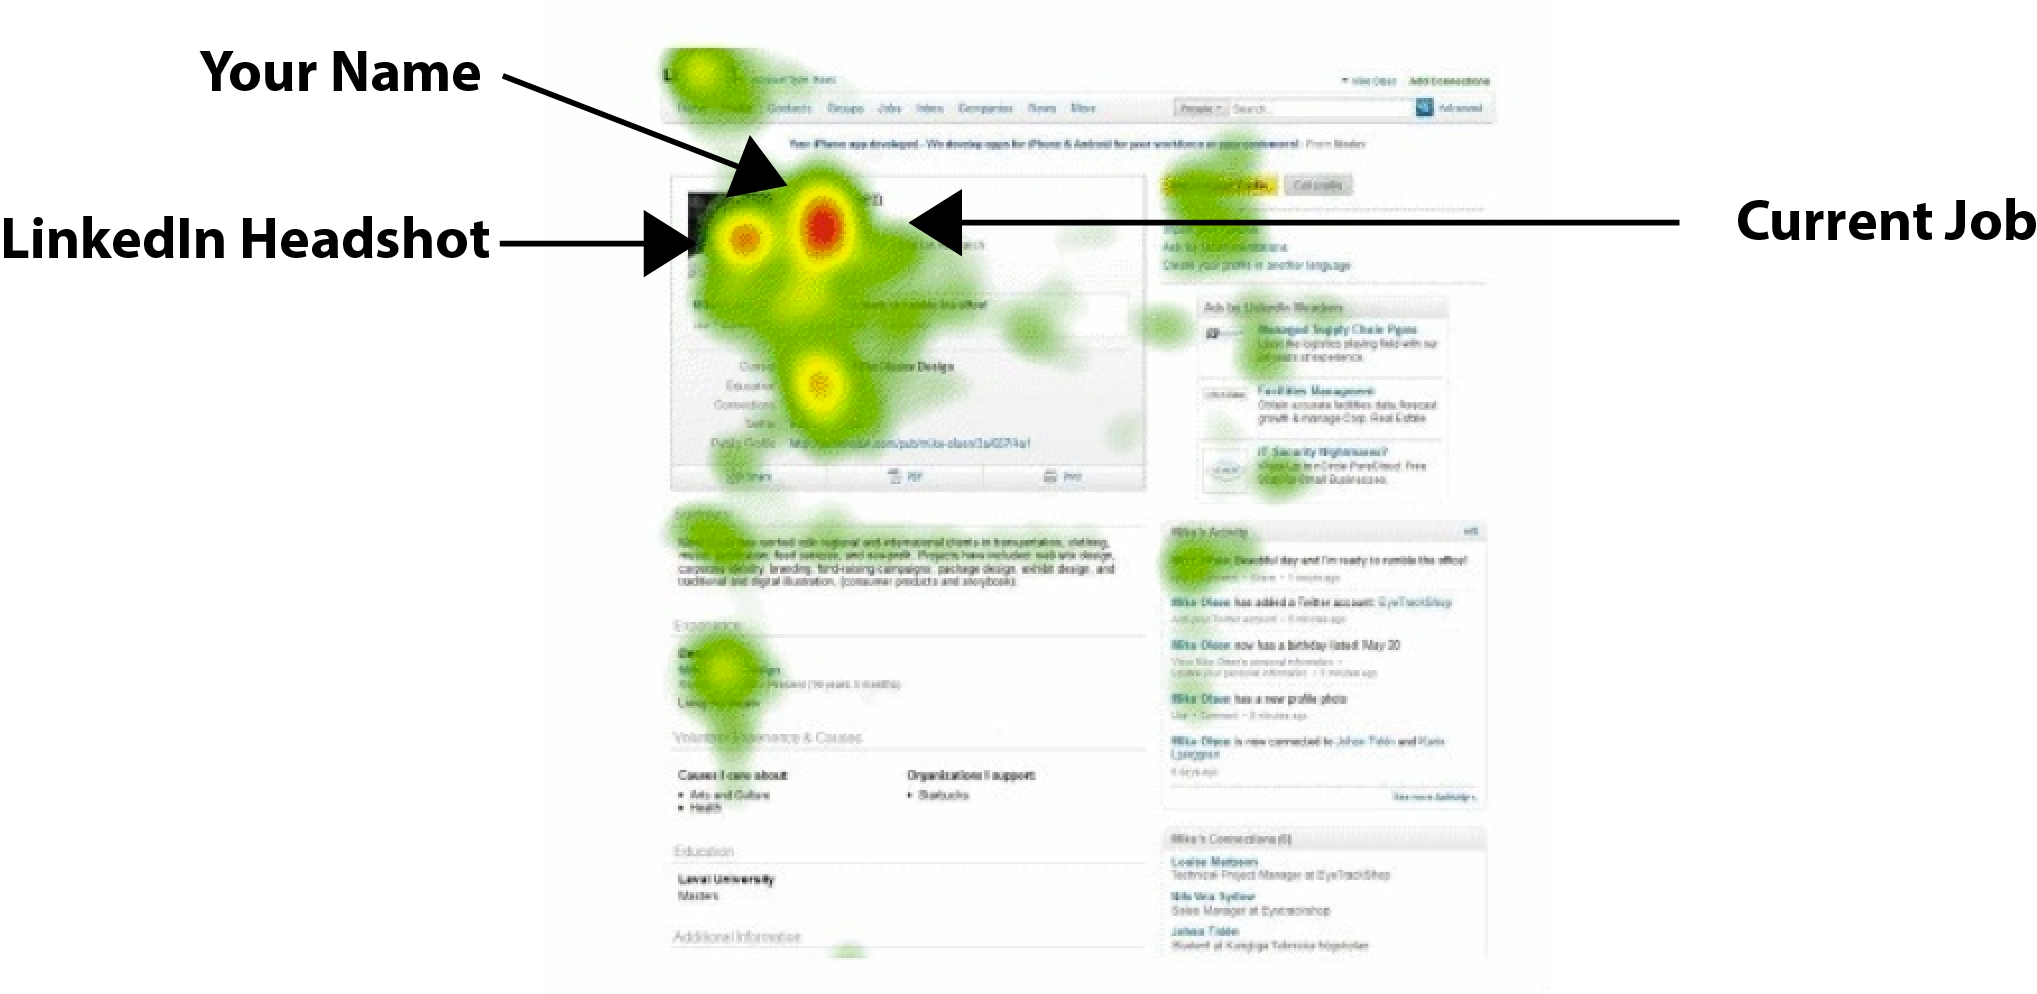
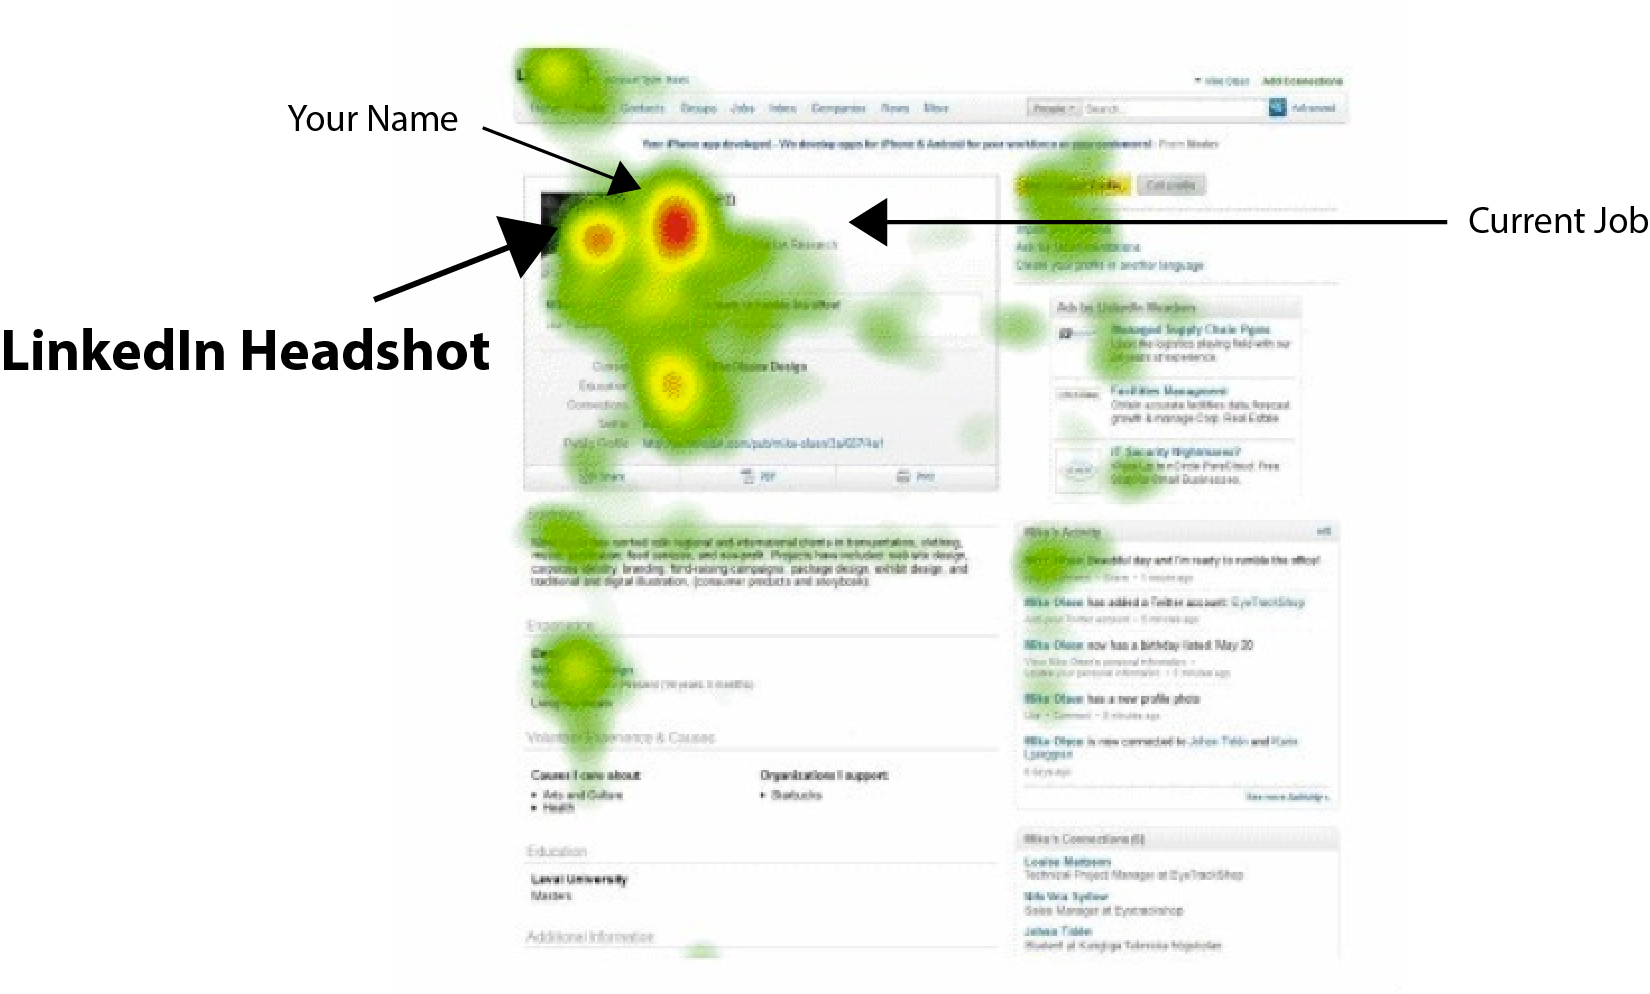
frontend fix

diff --git a/templates/test_retrieve.html b/templates/test_retrieve.html
@@ -18,6 +18,7 @@
 			<form method="POST" action="{% url 'landing_retrieve1' %}" class="form-inline">{% csrf_token %}
 				<label class="large_font">Enter your Unique ID: </label> <input type="text" name="retrieve_search" id="retrieve_search" class="form-control mm_height large_font helvetica" required placeholder="your 6-digit photo retrieval ID" onchange="try{setCustomValidity('')}catch(e){}" style="width:300px">
 					<button class="btn btn-white-lg" id="retrieve_search_button" type="submit">Submit</button>
+					<button class="btn btn-white-lg" id="retrieve_search_button_invis" type="submit" hidden style="display:none">Submit</button>
 			</form>
 			</div>
 			<div class="small_padding"></div>
@@ -29,11 +30,11 @@
 			<div class="container">
 			<div class="small_padding"></div>
 
-			<h3 class="bold text-center">On average, recruiters spend only 6 seconds looking at an online resume.</h3>
-			<p class="xsmall_padding text-center">Guess what they look at on <span class="blue bold">Linkedin</span>? Your name, current job, and <span class="red bold">Linkedin Headshot</span>.</p>
+			<h2 class="bold text-center">Recruiters spend a lot of time looking at your Linkedin headshot! And, on average, they spend 6 seconds looking at your resume total!</h2>
+
 			<div class="medium_padding"></div>
 
-			<p class="text-center bold large_font"><span class="red">This is a Linkedin Profile</span>. <span class="red">Red</span> is where recruiters are <span class="red">looking a lot</span>.</p>
+			<p class="text-center bold">This is a Linkedin Profile. <span class="red">The red spots are where recruiters are looking a lot</span>.</p>
 
 			<div class="center_flex">
 				<img src="{% static 'img/heatmap.png' %}" class="img-responsive">
@@ -183,7 +184,7 @@
 						<li class="bold italic red">Give the recruiter at your dream job a reason to look at your profile</li>
 						<ul class="sm_font headshot_feature_list bold">
 							<li>Recruiters look at hundreds of Linkedin profiles</li>
-							<li><span class="red">Recruiters spend an average of six seconds</span> looking at an online resume</li>
+							<li><span class="red">Recruiters spend a lot of time looking at your Linkedin headshot!</span> And, on average, they spend 6 seconds looking at your resume total!</li>
 						</ul>	
 						</div>
 						<div class="xsmall_padding"></div>
@@ -547,6 +548,19 @@
 {% block jquery %}
 	var total = 0;
 	var purchases = []
+
+
+	// enter id
+	$('#retrieve_search_button').on('click', function(e){
+		e.preventDefault();
+		console.log('asd');
+		$('#loader-wrapper').show();
+		setTimeout(function(){
+			$('#loader-wrapper').hide();
+			$('#retrieve_search_button_invis').trigger('click');
+		}, 6000);
+	});
+
   // modal 
   $("#modal_link").animatedModal({
     animatedIn: 'zoomInUp',

diff --git a/careerlab/models.py b/careerlab/models.py
@@ -911,7 +911,7 @@ class HeadshotImage(models.Model):
 					files = dbx.files_list_folder(path).entries
 				except Exception, e:
 					print '[FAILED][RAW FAV] ' + self.name + ' list folder failed'
-					raise e
+					# raise e
 				else:
 					assert len(files)==1, 'RAW FAV does not have 1 item!'
 					file = files[0]
@@ -931,7 +931,7 @@ class HeadshotImage(models.Model):
 					files = dbx.files_list_folder(path).entries
 				except Exception, e:
 					print '[FAILED][RAW ALL] ' + self.name + ' list folder failed'
-					raise e
+					# raise e
 				else:
 					# trick
 					file_name, file_ext = os.path.splitext(self.name)
@@ -956,7 +956,7 @@ class HeadshotImage(models.Model):
 					files = dbx.files_list_folder(path).entries
 				except Exception, e:
 					print '[FAILED][EDITED FAV] ' + self.name + ' list folder failed'
-					raise e
+					# raise e
 				else:
 					assert len(files)==1, 'EDITED FAV does not have 1 item!'
 					file = files[0]
@@ -973,7 +973,7 @@ class HeadshotImage(models.Model):
 					files = dbx.files_list_folder(path).entries
 				except Exception, e:
 					print '[FAILED][EDITED TOP] ' + self.name + ' list folder failed'
-					raise e
+					# raise e
 				else:
 					assert len(files)==1, 'EDITED TOP does not have 1 item!'
 					file = files[0]
@@ -990,7 +990,7 @@ class HeadshotImage(models.Model):
 					files = dbx.files_list_folder(path).entries
 				except Exception, e:
 					print '[FAILED][EDITED PORTRAIT] ' + self.name + ' list folder failed'
-					raise e
+					# raise e
 				else:
 					assert len(files)==1, 'EDITED PORTRAIT does not have 1 item!'
 					file = files[0]
